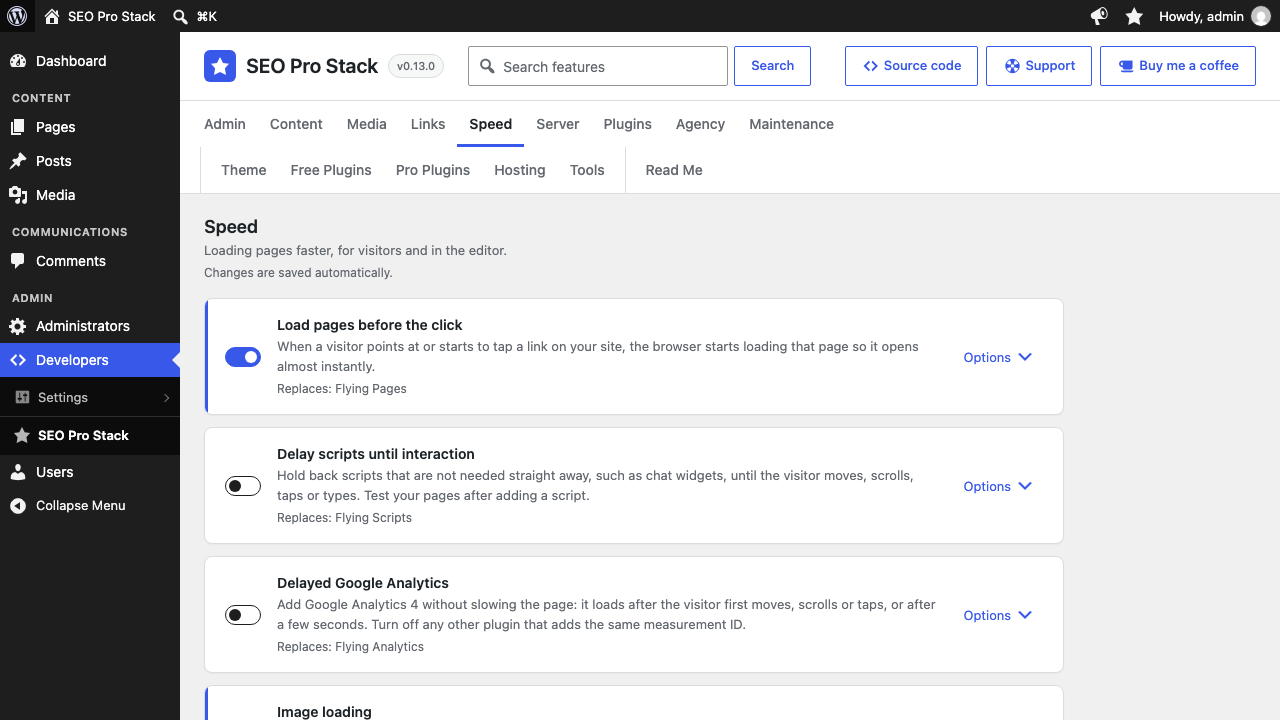
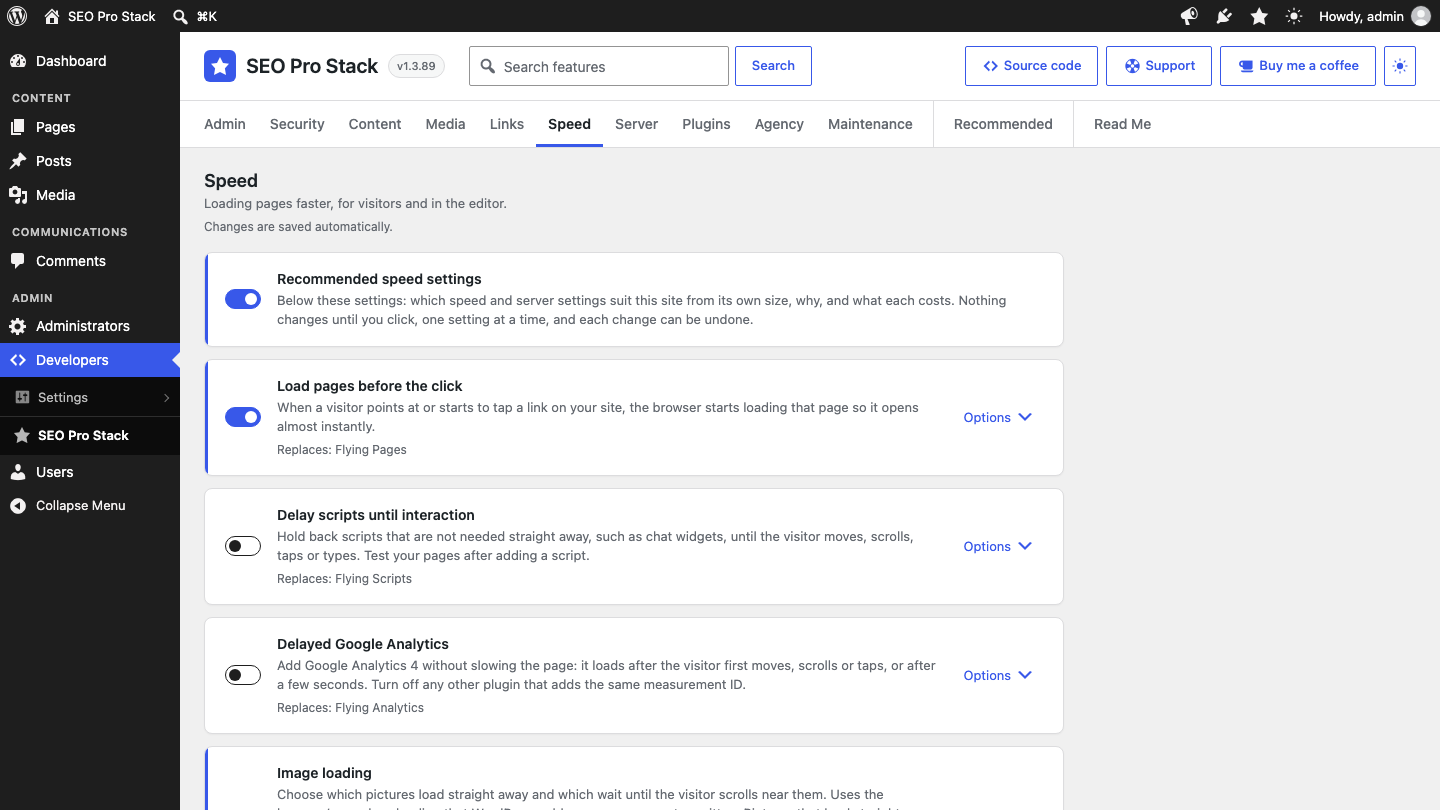
GH#976: fix: purge a post's page cache after removing its pictures' local copies; new screenshots; release 1.3.89
* wip: GH#976 purge attached post's page cache after removing local copies

* wip: release 1.3.89 version and changelogs

* wip: retake screenshots on 1.3.89

* fix: GH#976 also purge the picture's own page (review)

diff --git a/includes/class-seoprostack-page-cache.php b/includes/class-seoprostack-page-cache.php
@@ -88,6 +88,64 @@ final class SEOProStack_Page_Cache {
     }
 
     /**
+     * Purge the cached pages of these posts only, through each cache's own
+     * code: LiteSpeed Cache's litespeed_purge_post (which also purges the
+     * archives its settings list), or for an attachment's page its post tag,
+     * and WP-Optimize's single-post purge when its page cache is on. Never
+     * purges every page. A cache not loaded on this request is left alone.
+     * Other page caches can purge on the seoprostack_page_cache_purge_post
+     * action.
+     *
+     * @since 1.3.89
+     * @param int[] $ids Post IDs, attachments included.
+     */
+    public static function purge_posts($ids) {
+        $ids = array_unique(array_filter(array_map('intval', (array) $ids), static function ($id) {
+            return $id > 0;
+        }));
+        if (!$ids) {
+            return;
+        }
+        $litespeed = (bool) has_action('litespeed_purge_post');
+        $wpo = self::wp_optimize_on() && method_exists('WPO_Page_Cache', 'delete_single_post_cache');
+        foreach ($ids as $id) {
+            if ($litespeed && 'attachment' === get_post_type($id)) {
+                // litespeed_purge_post skips the inherit status, and
+                // litespeed_purge_url leaves an admin notice; LiteSpeed tags
+                // every single page with its post ID (Tag::TYPE_POST).
+                do_action('litespeed_purge', 'Po.' . $id); // phpcs:ignore WordPress.NamingConventions.PrefixAllGlobals.NonPrefixedHooknameFound -- LiteSpeed Cache's hook.
+            } elseif ($litespeed) {
+                do_action('litespeed_purge_post', $id); // phpcs:ignore WordPress.NamingConventions.PrefixAllGlobals.NonPrefixedHooknameFound -- LiteSpeed Cache's hook.
+            }
+            if ($wpo) {
+                WPO_Page_Cache::delete_single_post_cache($id);
+            }
+            /**
+             * Fires when a post's cached page is out of date (SEO Pro Stack
+             * changed the addresses of its pictures), for page caches
+             * SEO Pro Stack does not purge itself.
+             *
+             * @since 1.3.89
+             * @param int $id Post ID.
+             */
+            do_action('seoprostack_page_cache_purge_post', $id);
+        }
+    }
+
+    /**
+     * Whether WP-Optimize is loaded with its page cache on.
+     *
+     * @return bool
+     */
+    private static function wp_optimize_on() {
+        if (!function_exists('WP_Optimize') || !class_exists('WPO_Page_Cache')) {
+            return false;
+        }
+        $cache = WP_Optimize()->get_page_cache();
+        return is_object($cache) && method_exists($cache, 'is_enabled') && $cache->is_enabled();
+    }
+
+    /**
      * LiteSpeed Cache: purge this site's pages, through its own hook.
      *
      * @return bool False when LiteSpeed Cache is not loaded on this request.

diff --git a/includes/features/class-seoprostack-media-storage.php b/includes/features/class-seoprostack-media-storage.php
@@ -66,6 +66,8 @@ class SEOProStack_Media_Storage extends SEOProStack_Feature {
     private static $maps = array();
     /** Original leases held until the reader finishes this request. @var array<string,string> */
     private static $original_leases = array();
+    /** Attachments whose local files this batch deleted: their posts' cached pages are purged. @var array<int,true> */
+    private static $purge = array();
 
     /** @return array<string,array> */
     public static function settings() {
@@ -1954,9 +1956,36 @@ class SEOProStack_Media_Storage extends SEOProStack_Feature {
             $attempts = $ready ? self::upload_batch($start, $limit) : 0;
         } finally {
             self::release($lease);
+            self::purge_pages();
         }
         self::reschedule();
         return $attempts;
+    }
+
+    /**
+     * Purge the cached pages of the pictures that lost their local files in
+     * this batch, once each: a page cached before still points at those
+     * files (404) until its cache entry expires. The post a picture is
+     * attached to is purged, and the picture's own page while the site has
+     * attachment pages; never every page, as the batch runs every minute.
+     */
+    private static function purge_pages() {
+        $ids = array();
+        // WordPress 6.4+ can turn attachment pages off; older sites have them.
+        $pages = (bool) get_option('wp_attachment_pages_enabled', '1');
+        foreach (array_keys(self::$purge) as $id) {
+            $id = (int) $id;
+            if ($pages && 'attachment' === get_post_type($id)) {
+                $ids[] = $id;
+            }
+            // False when the attachment is gone: nothing to purge.
+            $parent = wp_get_post_parent_id($id);
+            if ($parent) {
+                $ids[] = $parent;
+            }
+        }
+        self::$purge = array();
+        SEOProStack_Page_Cache::purge_posts($ids);
     }
 
     /**
@@ -2181,6 +2210,7 @@ class SEOProStack_Media_Storage extends SEOProStack_Feature {
         }
         update_option(self::FLAG, 1, true);
         self::delete_local($path);
+        self::$purge[(int) $id] = true;
         if (!self::changed_meanwhile($id, $generation)) {
             return true;
         }

diff --git a/seoprostack.php b/seoprostack.php
@@ -3,7 +3,7 @@
  * Plugin Name:       SEO Pro Stack
  * Plugin URI:        https://github.com/wpallstars/seoprostack
  * Description:       One free plugin for a faster, tidier WordPress. It does the jobs of 40+ single-purpose plugins, each a switch you turn on.
- * Version:           1.3.88
+ * Version:           1.3.89
  * Requires at least: 6.2
  * Requires PHP:      7.4
  * Author:            Marcus Quinn
@@ -43,7 +43,7 @@ if (!defined('ABSPATH')) {
     exit;
 }
 
-define('SEOPROSTACK_VERSION', '1.3.88');
+define('SEOPROSTACK_VERSION', '1.3.89');
 define('SEOPROSTACK_FILE', __FILE__);
 define('SEOPROSTACK_DIR', plugin_dir_path(__FILE__));
 define('SEOPROSTACK_URL', plugin_dir_url(__FILE__));

diff --git a/README.md b/README.md
@@ -7,7 +7,7 @@
 [![CI](https://github.com/wpallstars/seoprostack/actions/workflows/ci.yml/badge.svg?branch=main)](https://github.com/wpallstars/seoprostack/actions/workflows/ci.yml)
 [![Quality Gate Status](https://sonarcloud.io/api/project_badges/measure?project=wpallstars_seoprostack&metric=alert_status)](https://sonarcloud.io/summary/new_code?id=wpallstars_seoprostack)
 [![License: GPL v3 or later](https://img.shields.io/badge/License-GPL%20v3%20or%20later-blue.svg)](LICENSE)
-[![Latest release](https://img.shields.io/badge/release-v1.3.88-blue.svg)](https://github.com/wpallstars/seoprostack/releases)
+[![Latest release](https://img.shields.io/badge/release-v1.3.89-blue.svg)](https://github.com/wpallstars/seoprostack/releases)
 
 [![Requires WordPress](https://img.shields.io/badge/WordPress-6.2%2B-21759B.svg?logo=wordpress)](readme.txt)
 [![Tested up to](https://img.shields.io/badge/tested%20up%20to-7.1-21759B.svg?logo=wordpress)](readme.txt)
@@ -24,18 +24,18 @@ SEO Pro Stack does the jobs that usually take dozens of small plugins: a calmer,
 
 If this saves you time, headaches and costs, feel free to [buy me a coffee](https://buymeacoffee.com/marcusquinn), or whatever you like, to invest in making more things open-source.
 
-Version: 1.3.88
+Version: 1.3.89
 
 <!-- github-only:start -->
 ## Screenshots
 
-**Settings → SEO Pro Stack**: the Admin tab, with search and the Source code, Support and Buy me a coffee links.
+**Settings → SEO Pro Stack**: the Admin tab, with search, the Source code, Support and Buy me a coffee links and the Light / Dark / System button. Admin features that are safe on any site are on from the start.
 
 ![The SEO Pro Stack settings screen on the Admin tab](.wordpress-org/screenshot-1.png)
 
 **The Speed tab**: each feature is one switch, with its options and the plugin it replaces.
 
-![The Speed tab with Load pages before the click switched on](.wordpress-org/screenshot-2.png)
+![The Speed tab with Recommended speed settings and Load pages before the click switched on](.wordpress-org/screenshot-2.png)
 
 **The Read Me tab** shows this file inside WordPress, banner included.
 
@@ -1345,6 +1345,7 @@ Set `SEOPROSTACK_MEDIA_STORAGE_ORIGINALS_BUCKET` to a **separate private bucket*
 - The batch removes only files listed in an attachment's completed record (`_seoprostack_storage`) for the current endpoint, bucket and prefix. Each file goes only when the local file still has its uploaded size and SHA-256, the API answers `HEAD` with HTTP 200 and the recorded size, and the public address serves an object (checked once per batch). Every local file is checked before any is deleted, so a picture's files go together or stay together. An edit, a restore or a new upload meanwhile keeps the files. A file that changed since its upload, or a size that does not match, keeps that attachment's files and shows the error; `upload --retry-failed` looks at them again.
 - Never removed by the public-media inventory: files the record does not list. That covers Watermark pictures' unmarked originals (their separate private-bucket option is below), unregistered copies, oversized files, other media types and images edited before an upload. WordPress's kept `original_image` and uploaded `.webp` and `.avif` copies are listed, so they are removed too and brought back by restore. Removal waits while **WebP and AVIF images** still has pictures to convert, so copies are uploaded first. Removed files are listed in `_seoprostack_storage_removed`, with their size, SHA-256 and modified time, before each file is deleted.
 - Pictures without local files are shown from the bucket everywhere: on pages, in wp-admin, admin-ajax and REST edit responses. The block and classic editors load bucket addresses for those pictures; saving puts local addresses back, including previous-destination addresses. After a connection change, unadopted removed files keep their recorded public address everywhere. Automatic uploads leave old inventories alone; only verified `adopt` or `migrate` relabels them.
+- Cached pages: a page cached while its pictures were still here keeps their local addresses, which answer 404 once the files go. So when a batch deletes a picture's local files, the post the picture is attached to has its cached page purged, once per batch, and so does the picture's own page while the site has attachment pages: LiteSpeed Cache's `litespeed_purge_post` (which also purges the archives its settings list; the picture's page by its post tag) and WP-Optimize's single-page purge when its page cache is on. The batch never purges every page. Other pages that show the picture (used in another post, or a featured image on a page it is not attached to) keep their cache entry until it expires; purge them by hand if one shows broken pictures. Other page caches can purge on `seoprostack_page_cache_purge_post` (GitHub issue #976).
 - Bringing files back: `wp seoprostack media-storage restore --attachment=<id>` or `--all` downloads each removed file with a signed `GET`, checks its size and SHA-256 against the record, writes it next to a temporary name, then renames it into place with its recorded modified time (so WebP copies stay newer than their files). An existing local file is never overwritten. Restored pictures keep their files here until they change, or until the switch is turned on again. Restore uses the batch lease, so a batch never removes a file while it comes back.
 - Just in time: the files come back before anything reads them. That covers the image editor (`load_image_to_edit_path`), size regeneration (`wp media regenerate`, Regenerate Thumbnails, core's REST edit and post-process steps, the upload size step and WP-Cron jobs, through `wp_get_original_image_path`), **WebP and AVIF images** conversion, and **Watermark pictures** marking and removal, including the mark picture itself. A changed picture's next upload brings back its removed files before collecting them. Code that only names the file never downloads it: media grid views, REST media responses and updates, and other WP-CLI commands. **Replace media files** forgets the old removed files instead of downloading them, because it replaces them.
 - Switching **Remove local copies after upload** or **Media in cloud storage** off brings every removed file back in background batches. Removed pictures keep their bucket addresses until then, even with the feature off. The card says while this runs. A service failure (the bucket cannot be reached, or refuses the credentials) pauses removing or restoring for an hour and shows the error. A restore that fails for one picture only (removed under another connection, too large for PHP memory, missing from the bucket, or not matching its record) shows the error with the attachment ID, and the batch moves on; that picture keeps showing from the bucket and is tried again by `restore --all`, by `upload --retry-failed`, or under another connection.
@@ -1970,6 +1971,7 @@ Actions:
 - `seoprostack_post_type_switched`: a post’s type changed (post ID, new type, old type).
 - `seoprostack_hand_ordered`: items were reordered by hand (`post` or `term`, post type or taxonomy, IDs whose place changed). Use it to purge caches.
 - `seoprostack_page_cache_purge`: SEO Pro Stack was updated and has purged the page caches it knows (new version), once per site; purge yours here.
+- `seoprostack_page_cache_purge_post`: a post's cached page is out of date because SEO Pro Stack changed its pictures' addresses (post ID), such as after Media in cloud storage removed their local copies; purge that page in your cache here.
 - `seoprostack_term_merged`: a term was merged into another (`WP_Term` that took over, the deleted `WP_Term`).
 - `seoprostack_terms_moved`: terms moved to another taxonomy (term IDs, new taxonomy, old taxonomy).
 
@@ -1984,6 +1986,11 @@ Deleting the plugin removes its settings (on multisite, every site's and the net
 Deactivating the plugin removes the WebP and AVIF rules from the uploads folder’s `.htaccess` (for every site when network-deactivated), the LiteSpeed request rules from the site’s `.htaccess` (on multisite, when network-deactivated or deactivated on the main site) and the must-use file of Load plugins only where needed (on multisite, when network-deactivated).
 
 ## Changelog
+
+### 1.3.89
+- Fix: **Media in cloud storage** with **Remove local copies after upload** purges the cached page of the post a picture is attached to, and the picture's own page, once the batch removes the picture's local files (LiteSpeed Cache and WP-Optimize, or any cache on the new `seoprostack_page_cache_purge_post` action), once per post per batch and never every page. A page cached before still pointed at the removed files and showed broken pictures until its cache expired (GitHub issue #976).
+- Fix: **Media in cloud storage** keeps a failed picture's retry job until the retry runs, so a retry that stopped early can no longer leave it failed with nothing to try again, and `upload --retry-failed` requeues failed pictures that had already lost their job. Pictures refused for a shared path still wait for `collisions --repair` (GitHub issue #975).
+- Changed: new screenshots of the Admin, Speed and Read Me tabs for this version.
 
 ### 1.3.88
 - Fix: **Advanced Text for new lines** (Simpler block editor) is off by default, and switched off once on every site, so typing makes core’s Paragraph again, with its shortcuts: `* ` or `- ` for a bulleted list, `1. ` for a numbered one, `## ` for a heading. Kadence’s Advanced Text has none of them. Headings, overlines and styled text are still Advanced Text from the inserter; turn the setting on again if nobody uses the shortcuts (GitHub issue #978).
